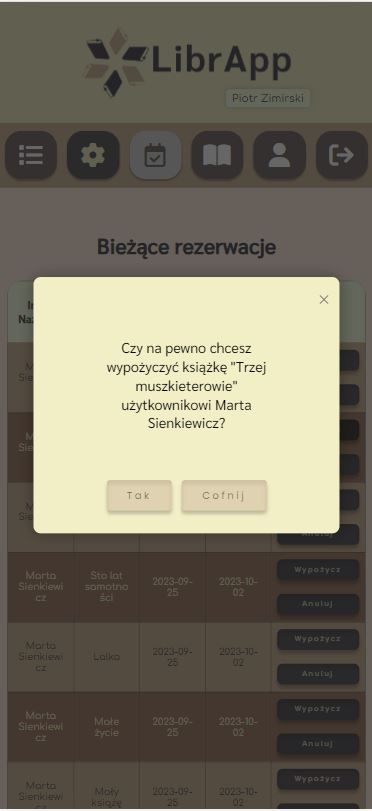
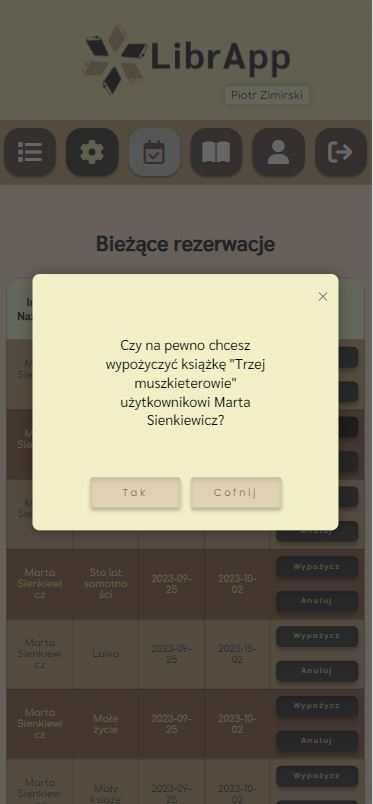
Modified buttons display and the set of uploaded application screenshots

diff --git a/public/css/modal-styles.css b/public/css/modal-styles.css
@@ -264,8 +264,10 @@
         font-size: 0.8em;
     }
 
-    .delete-confirmation button, .reserve-confirmation button, .cancel-confirmation button
-    .lend-confirmation button, .cancel-loan-confirmation button, .return-confirmation button{
+
+    .delete-confirmation button, .reserve-confirmation button, .cancel-confirmation button,
+    .lend-confirmation button, .cancel-loan-confirmation button, .return-confirmation button
+    {
         width: 5em;
         text-align: center;
     }
